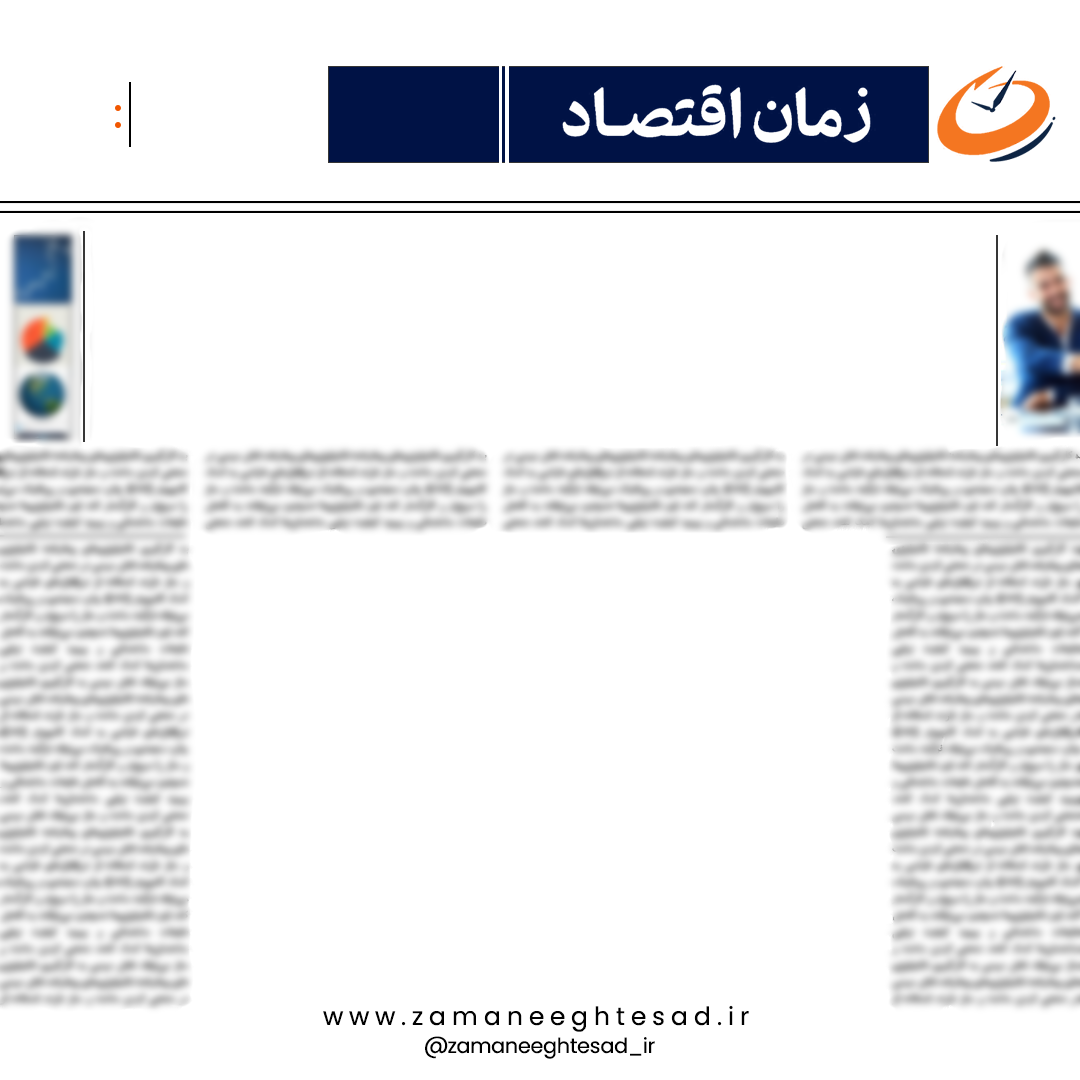
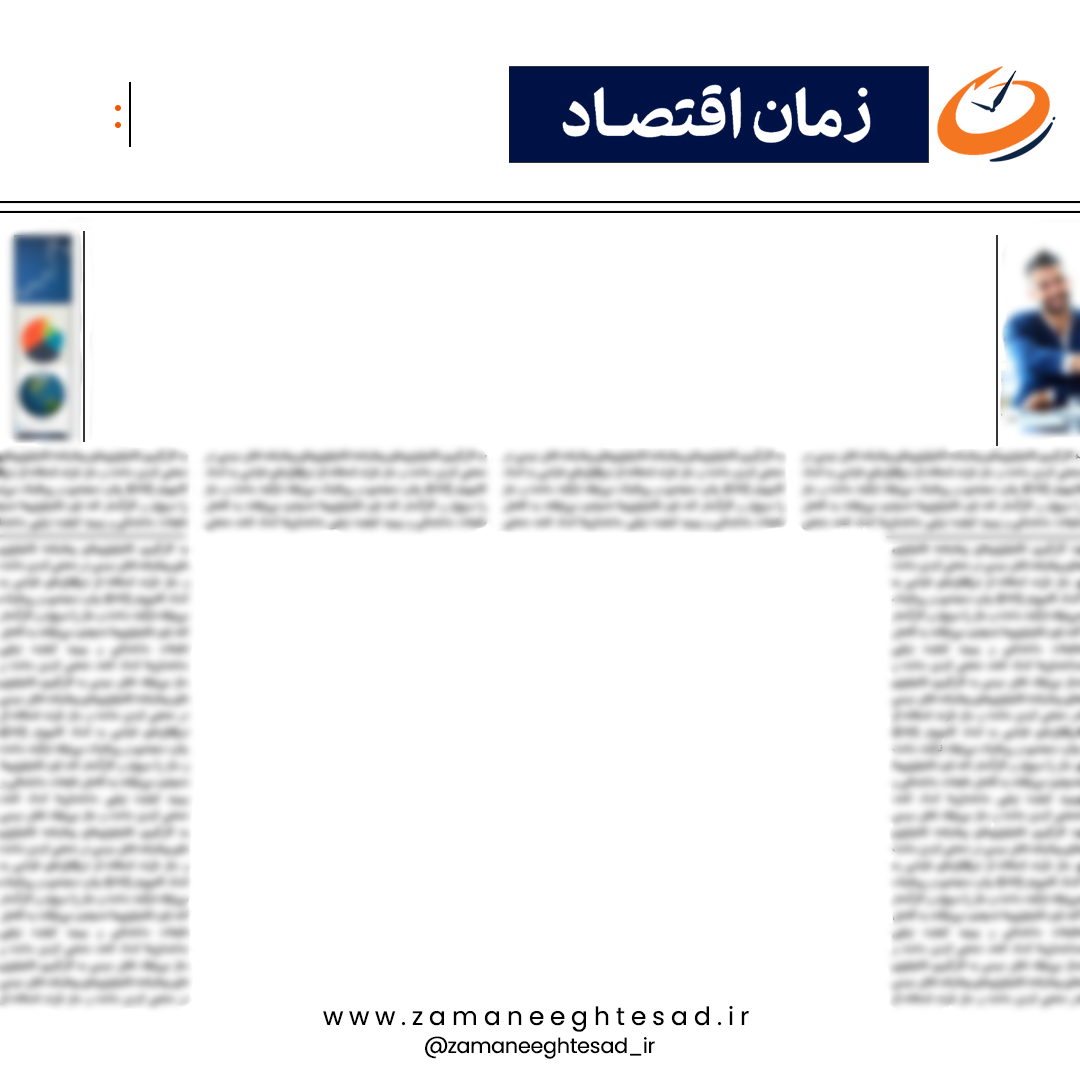
couple of changes to slogan

Changed region(s): [[0.3056, 0.0611, 0.4889, 0.1528]]

diff --git a/generate_image.py b/generate_image.py
@@ -190,8 +190,8 @@ def generate_news_image(
             break
 
     # Draw slogan
-    slogan_box_width = 490 - 330
-    slogan_y_offset = 75
+    slogan_box_width = 490 - 299
+    slogan_y_offset = 100
     current_slogan_line = ""
     slogan_lines = []
 
@@ -212,8 +212,8 @@ def generate_news_image(
         line_bbox = draw.textbbox((0, 0), reshaped_line, font=slogan_font)
         line_width = line_bbox[2] - line_bbox[0]
         line_height = line_bbox[3] - line_bbox[1]
-        x_position = 330 + (slogan_box_width - line_width) // 2
-        draw.text((x_position, slogan_y_offset), reshaped_line, font=slogan_font, fill="white")
+        x_position = 300 + (slogan_box_width - line_width) // 2
+        draw.text((x_position, slogan_y_offset), reshaped_line, font=slogan_font, fill=(4, 18, 66))  # Red color
         slogan_y_offset += line_height
         if slogan_y_offset > 130:
             break
@@ -244,7 +244,7 @@ generate_news_image(
     output_path="news_output.png",
     title="بازدهی ۴۰ درصدی گواهی سپرده سکه از ابتدای سال:",
     main_content="نوسان سکه رفاه در حوالی قله و چشم انداز آینده بازار، تحلیلگران رشد بیشتری را پیش بینی میکنند.",
-    slogan="زمان اقتصاد، همراه همیشگی شما در دنیای اقتصاد.",
+    slogan="اکنون زمانِ اقتصاد است.",
     user_image_path="input_image.jpg",
     # todays_events="",
     # todays_events="رویداد ۱: افزایش نرخ ارز",

diff --git a/bot2.py b/bot2.py
@@ -109,7 +109,7 @@ async def receive_slogan(update: Update, context: CallbackContext):
         return SLOGAN  # Stay in the SLOGAN step.
 
     if update.message.text == 'استفاده از شعار پیشفرض':  # Check if the user chose the default slogan.
-        data['slogan'] = "منبع خبری مورد اعتماد شما"  # Set the default slogan.
+        data['slogan'] = "اکنون زمانِ اقتصاد است."  # Set the default slogan.
         logger.info("Default slogan selected.")  # Log the default slogan choice.
         reply_markup = ReplyKeyboardMarkup([['تاریخ امروز', 'انتخاب تاریخ آینده']], one_time_keyboard=True)  # Create a keyboard for date selection.
         await update.message.reply_text("شعار ذخیره شد. لطفاً یکی از گزینههای زیر را انتخاب کنید:", reply_markup=reply_markup)  # Prompt for date selection.
